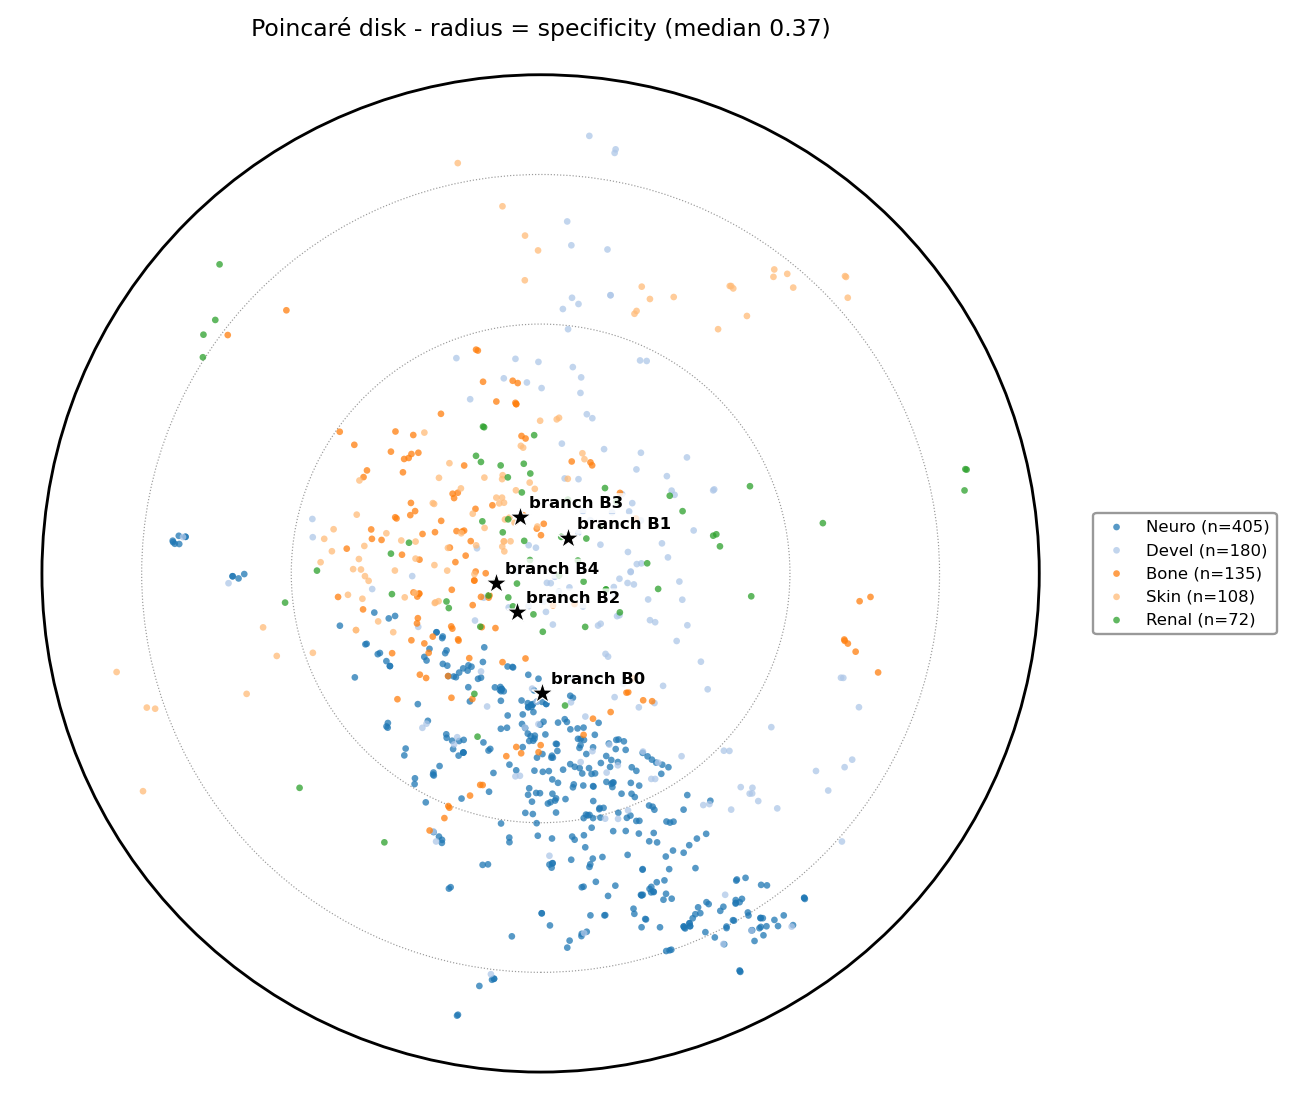
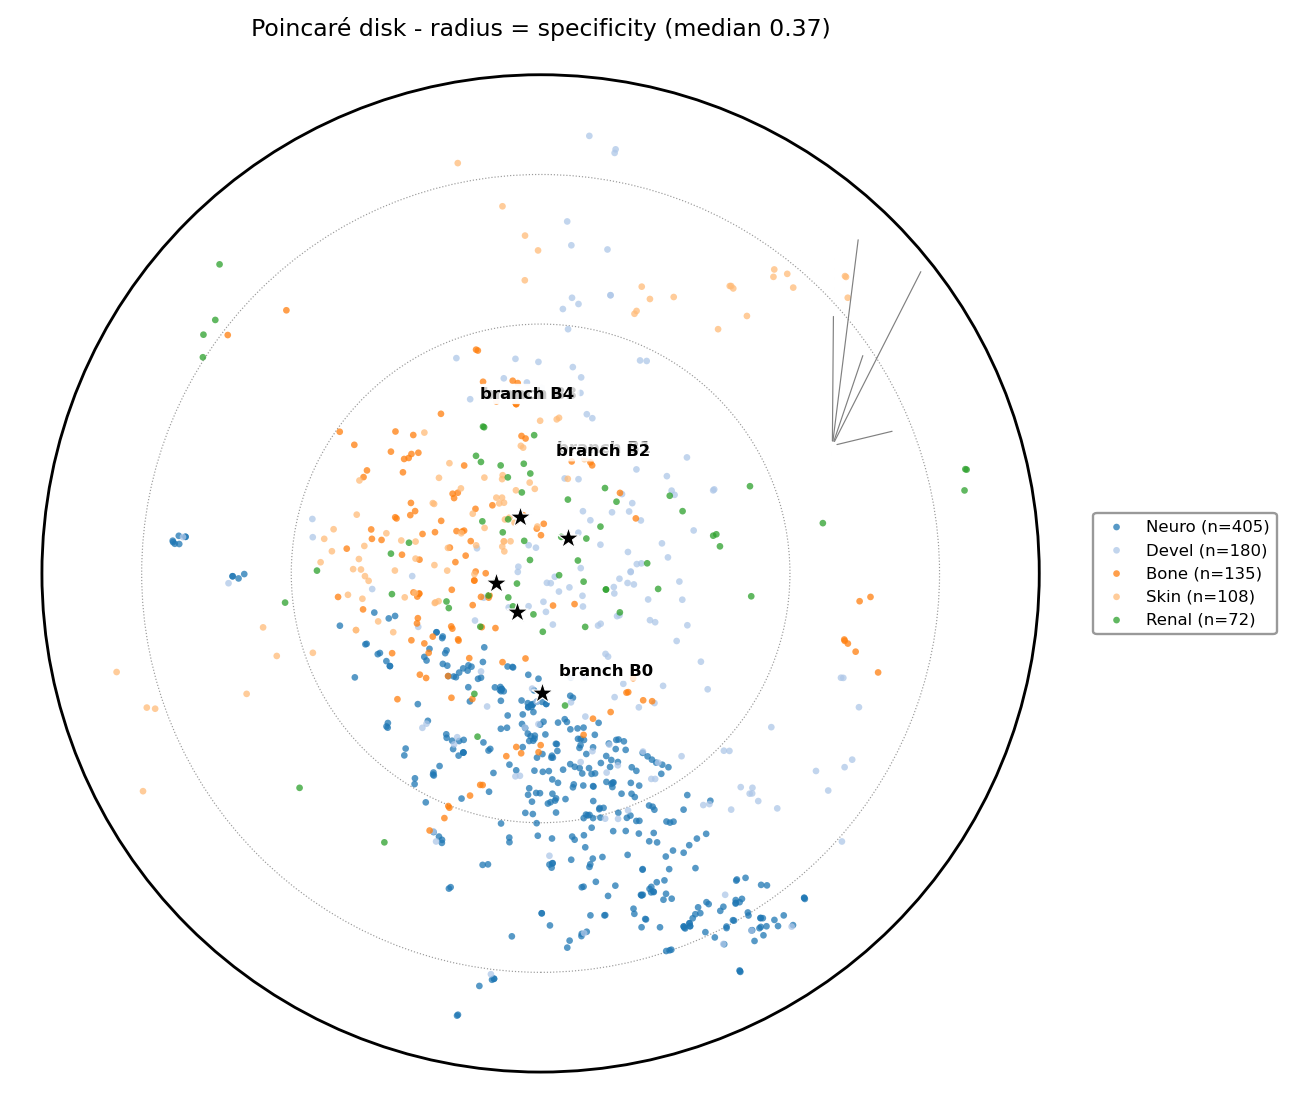
Add connectivity heatmap view; optional label repulsion
- plot_connectivity_heatmap: group x group observed/expected ratio with
  cell values, the readable view once a cohort has many mutually
  connected groups (node-link drawings collide at that point)
- plot_connectivity / plot_disk: push overlapping labels apart when
  adjustText is available, silently skip otherwise
- spring layout of the abstracted graph now weights edges by log(ratio)
  and spaces nodes by group count
- README: heatmap section and figure; example regenerates it

diff --git a/src/phenotopo/layout.py b/src/phenotopo/layout.py
@@ -19,6 +19,20 @@ def default_palette(groups) -> dict:
     return {g: base[i % len(base)] for i, g in enumerate(groups)}
 
 
+def _repel(texts, ax, xs=None, ys=None):
+    """Push overlapping labels apart with adjustText if it is installed (no-op otherwise)."""
+    try:
+        from adjustText import adjust_text
+    except ImportError:
+        return
+    if len(texts) < 2:
+        return
+    kw = dict(ax=ax, expand=(1.3, 1.6), arrowprops=dict(arrowstyle="-", color="0.5", lw=0.5))
+    if xs is not None:
+        kw.update(x=list(xs), y=list(ys))
+    adjust_text(texts, **kw)
+
+
 def _new_axes(ax, figsize):
     import matplotlib.pyplot as plt
 
@@ -64,11 +78,14 @@ def plot_connectivity(
         g = nx.Graph()
         for a in groups:
             g.add_node(a)
-        for a in groups:
-            for b in groups:
-                if a < b and ratio.loc[a, b] >= min_ratio:
-                    g.add_edge(a, b, weight=float(ratio.loc[a, b]))
-        pos = nx.spring_layout(g, seed=0, weight="weight")
+        for i, a in enumerate(groups):
+            for b in groups[i + 1:]:
+                r = float(ratio.loc[a, b])
+                if r >= min_ratio and r > 0:
+                    g.add_edge(a, b, weight=math.log(r + 1.0))
+        # force-directed layout driven by the connectivity itself (as in PAGA);
+        # k widens spacing so labels of many groups do not collide
+        pos = nx.spring_layout(g, seed=0, weight="weight", k=2.2 / math.sqrt(max(len(groups), 2)), iterations=300)
 
     for i, a in enumerate(groups):
         for b in groups[i + 1:]:
@@ -83,15 +100,17 @@ def plot_connectivity(
                             color="#333333", zorder=4,
                             bbox=dict(boxstyle="round,pad=0.12", fc="white", ec="#333333", lw=0.5, alpha=0.9))
     total = float(sizes.sum())
+    texts = []
     for g in groups:
         area = node_scale * (sizes[g] / total) + 150
         ax.scatter(*pos[g], s=area, color=palette[g], edgecolors="black", linewidths=0.8,
                    alpha=0.95, zorder=2)
         radius_pt = math.sqrt(area) / 2.0
-        ax.annotate(f"{g}  (n={sizes[g]})", pos[g], fontsize=fontsize, fontweight="bold",
+        texts.append(ax.annotate(f"{g}  (n={sizes[g]})", pos[g], fontsize=fontsize, fontweight="bold",
                     ha="center", va="bottom", xytext=(0, radius_pt + 3), textcoords="offset points",
                     zorder=3, bbox=dict(boxstyle="round,pad=0.15", fc="white", ec="#888888",
-                                        lw=0.4, alpha=0.9))
+                                        lw=0.4, alpha=0.9)))
+    _repel(texts, ax, [pos[g][0] for g in groups], [pos[g][1] for g in groups])
     ax.set_xlabel("dim 1"); ax.set_ylabel("dim 2")
     ax.set_xticks([]); ax.set_yticks([])
     return ax
@@ -177,3 +196,40 @@ def plot_small_multiples(
         ax.axis("off")
     fig.tight_layout()
     return fig
+
+
+def plot_connectivity_heatmap(
+    connectivity: dict,
+    groups=None,
+    min_size: int = 0,
+    vmax: float | None = None,
+    ax=None,
+    fontsize: float = 8,
+):
+    """Group × group connectivity ratio as a heatmap.
+
+    The most readable summary once there are more than ~8 groups: every pair is
+    shown, the diagonal (self-connectivity) tells how cohesive a group is, and
+    values are printed in the cells. ``min_size`` drops small groups whose
+    expected edge counts are tiny and whose ratios are therefore unstable.
+    """
+    import matplotlib.pyplot as plt
+
+    ratio, sizes = connectivity["ratio"], connectivity["sizes"]
+    order = [g for g in (groups or connectivity["labels"]) if sizes[g] >= min_size]
+    m = ratio.loc[order, order].to_numpy(dtype=float)
+    ax = _new_axes(ax, (0.55 * len(order) + 3, 0.5 * len(order) + 2.5))
+    top = vmax if vmax is not None else max(2.0, float(np.nanpercentile(m[~np.eye(len(order), dtype=bool)], 95)))
+    im = ax.imshow(np.clip(m, 0, top), cmap="magma_r", vmin=0, vmax=top, aspect="auto")
+    ax.set_xticks(range(len(order))); ax.set_yticks(range(len(order)))
+    labs = [f"{g} (n={sizes[g]})" for g in order]
+    ax.set_xticklabels(labs, rotation=60, ha="right", fontsize=fontsize)
+    ax.set_yticklabels(labs, fontsize=fontsize)
+    for i in range(len(order)):
+        for j in range(len(order)):
+            v = m[i, j]
+            ax.text(j, i, f"{v:.1f}", ha="center", va="center", fontsize=fontsize - 1.5,
+                    color="white" if v > 0.6 * top else "black")
+    ax.spines[["top", "right", "left", "bottom"]].set_visible(False)
+    cb = plt.colorbar(im, ax=ax, shrink=0.7); cb.set_label("observed / expected k-NN edges")
+    return ax

diff --git a/src/phenotopo/hyperbolic.py b/src/phenotopo/hyperbolic.py
@@ -118,10 +118,15 @@ def plot_disk(
                        edgecolors="none", rasterized=True, label=f"{g} (n={int(m.sum())})")
         ax.legend(fontsize=7, loc="center left", bbox_to_anchor=(1.02, 0.5), frameon=True, edgecolor="gray")
     if landmarks:
+        from .layout import _repel
+
+        texts = []
         for name, xy in landmarks.items():
             ax.scatter(xy[0], xy[1], marker="*", s=90, c="black", zorder=5, edgecolors="white", linewidths=0.5)
-            ax.annotate(name, xy, fontsize=7, fontweight="bold", xytext=(4, 4), textcoords="offset points",
-                        bbox=dict(boxstyle="round,pad=0.15", fc="white", ec="none", alpha=0.8))
+            texts.append(ax.annotate(name, xy, fontsize=7, fontweight="bold", xytext=(4, 4),
+                                     textcoords="offset points", zorder=6,
+                                     bbox=dict(boxstyle="round,pad=0.15", fc="white", ec="none", alpha=0.8)))
+        _repel(texts, ax, [xy[0] for xy in landmarks.values()], [xy[1] for xy in landmarks.values()])
     ax.set_xlim(-1.05, 1.05); ax.set_ylim(-1.05, 1.05); ax.set_aspect("equal")
     ax.axis("off")
     return ax

diff --git a/src/phenotopo/__init__.py b/src/phenotopo/__init__.py
@@ -19,12 +19,12 @@ Inputs are deliberately minimal: a distance or feature matrix, group labels and
 """
 
 from .graph import group_centroids, group_connectivity, knn_graph
-from .layout import default_palette, plot_connectivity, plot_density, plot_small_multiples
+from .layout import default_palette, plot_connectivity, plot_connectivity_heatmap, plot_density, plot_small_multiples
 from . import data, hyperbolic, mapper
 
 __version__ = "0.1.0"
 __all__ = [
     "knn_graph", "group_connectivity", "group_centroids",
-    "plot_connectivity", "plot_density", "plot_small_multiples", "default_palette",
+    "plot_connectivity", "plot_connectivity_heatmap", "plot_density", "plot_small_multiples", "default_palette",
     "data", "hyperbolic", "mapper", "__version__",
 ]

diff --git a/examples/quickstart.py b/examples/quickstart.py
@@ -17,6 +17,7 @@ import numpy as np
 
 from phenotopo import (
     group_connectivity,
+    plot_connectivity_heatmap,
     knn_graph,
     plot_connectivity,
     plot_density,
@@ -42,6 +43,7 @@ conn = group_connectivity(knn_graph(distance=distance, k=15), labels)
 print("\nconnectivity (observed / expected k-NN edges):")
 print(conn["ratio"].round(2).to_string())
 save(plot_connectivity(conn, embedding=emb, labels=labels, min_ratio=0.5), "connectivity.png")
+save(plot_connectivity_heatmap(conn), "connectivity_heatmap.png")
 
 # 2. density contours: overlap made visible
 save(plot_density(emb, labels, levels=(0.5, 0.85)), "density.png")

diff --git a/README.md b/README.md
@@ -32,6 +32,9 @@ pip install -e .                 # core: connectivity, density, small multiples
 pip install -e ".[hyperbolic]"   # + Poincaré disk (gensim)
 pip install -e ".[tda]"          # + Mapper graph (kmapper)
 pip install -e ".[all]"          # everything, incl. umap-learn
+
+If `adjustText` is installed, overlapping labels on the connectivity graph and the
+Poincaré disk are pushed apart automatically; without it the plots still work.
 ```
 
 ---
@@ -60,6 +63,19 @@ expects (`ratio ≥ 1`), with width ∝ log ratio. **Thick edge = the groups ble
 no edge = genuinely separate.** Here Neuro–Devel is thick, Bone is isolated, Skin
 hangs off Neuro — exactly as designed. This is the single most honest summary of
 "local coherence without discrete clusters".
+
+Once there are more than ~8 groups a node–link drawing stops being readable
+(labels collide, a dominant background group connects to nothing at `ratio ≥ 1`).
+For that case use the **heatmap** of the same matrix — every pair is shown,
+including the *separated* ones (`ratio < 1`), and the diagonal reports how
+cohesive each group is:
+
+```python
+from phenotopo import plot_connectivity_heatmap
+plot_connectivity_heatmap(conn, min_size=30)
+```
+
+<p align="center"><img src="examples/figures/connectivity_heatmap.png" width="560"></p>
 
 ### 2 · Density contours
 
@@ -141,7 +157,7 @@ behind modularity), so large groups are not rewarded merely for being large.
 | Module | Contents |
 |---|---|
 | `phenotopo.graph` | `knn_graph`, `group_connectivity`, `group_centroids` |
-| `phenotopo.layout` | `plot_connectivity`, `plot_density`, `plot_small_multiples`, `default_palette` |
+| `phenotopo.layout` | `plot_connectivity`, `plot_connectivity_heatmap`, `plot_density`, `plot_small_multiples`, `default_palette` |
 | `phenotopo.hyperbolic` | `poincare_terms`, `einstein_midpoint`, `place_patients`, `radial_specificity`, `plot_disk` |
 | `phenotopo.mapper` | `mapper_graph`, `node_values`, `plot_mapper` |
 | `phenotopo.data` | `synthetic_cohort`, `synthetic_hierarchy`, `synthetic_term_lists` |
